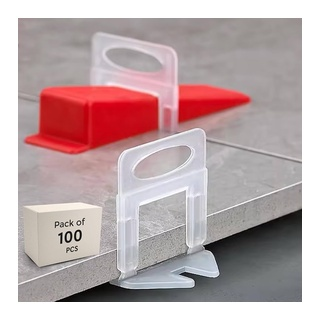
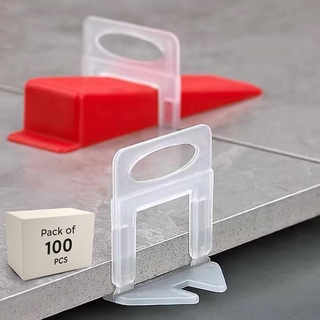
Tighten and clip the Home leveling-wedge image to the rounded tile
This refreshes the Home card image treatment for Ke cân bằng by reducing the baked-in white margin and ensuring the rendered image follows the rounded inner tile more clearly.

Constraint: Keep the current Home card proportions and only improve the asset fit/rounded presentation
Rejected: Rework the whole card layout for one asset issue | too broad for the immediate visual fix
Confidence: high
Scope-risk: narrow
Reversibility: clean
Directive: When swapping future Home images, favor assets that can fill the rounded tile cleanly without large baked-in margins
Tested: Local screenshot inspection of Screen 01 after the asset and clipping adjustment
Not-tested: Fresh phone screenshot after cache refresh

diff --git a/styles.css b/styles.css
@@ -446,12 +446,14 @@ body {
   display: flex;
   align-items: center;
   justify-content: center;
+  overflow: hidden;
 }
 
 .home-group-stage-inner img {
   width: 142px;
   height: 142px;
   object-fit: contain;
+  border-radius: inherit;
 }
 
 .home-group-title {